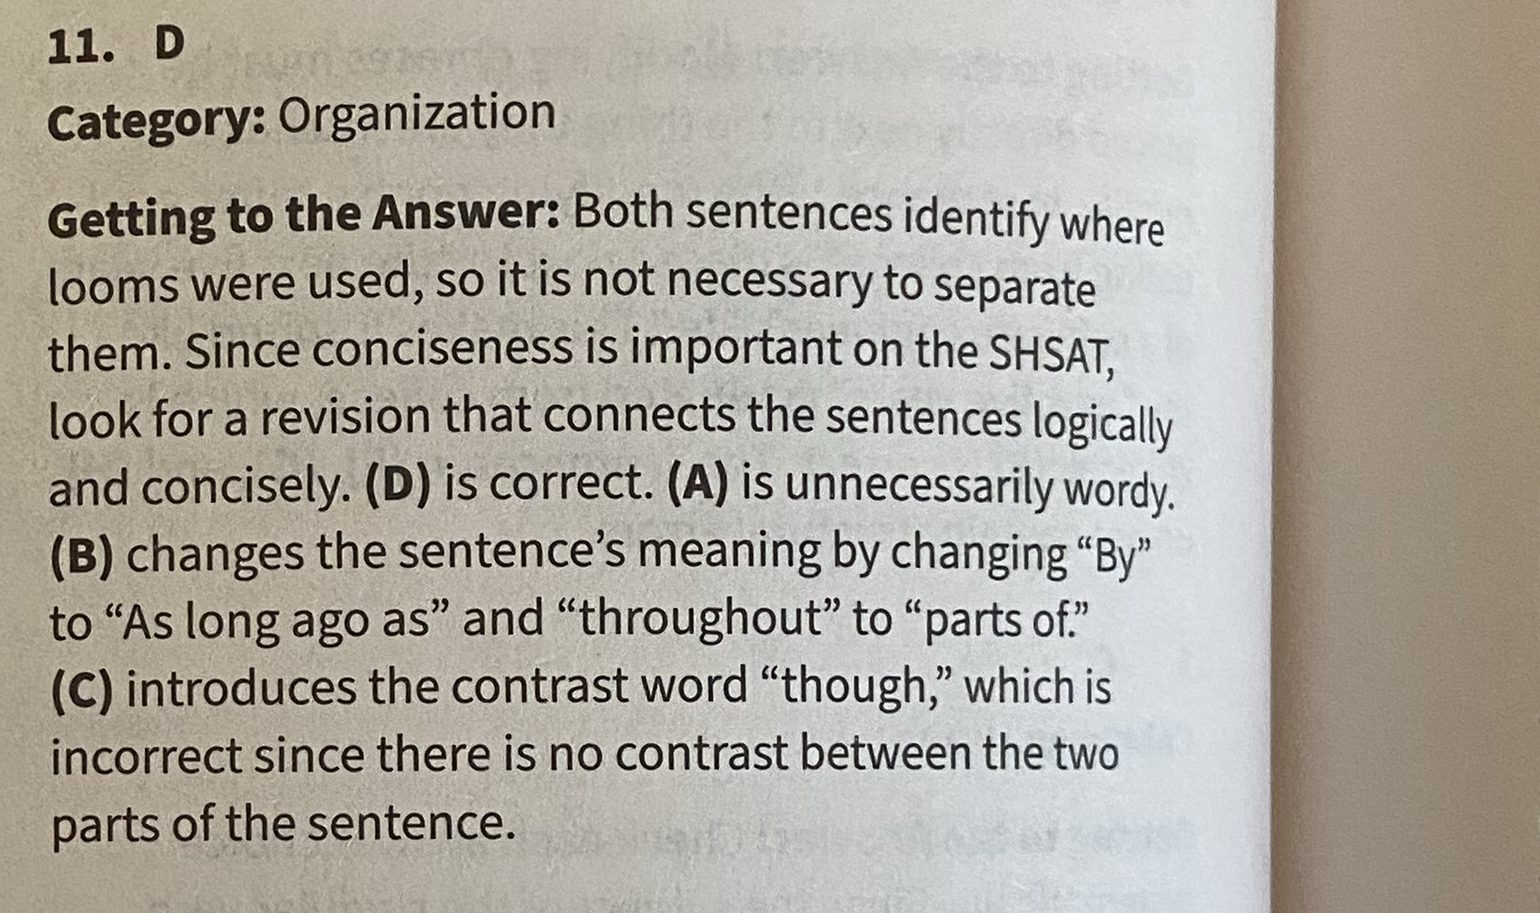
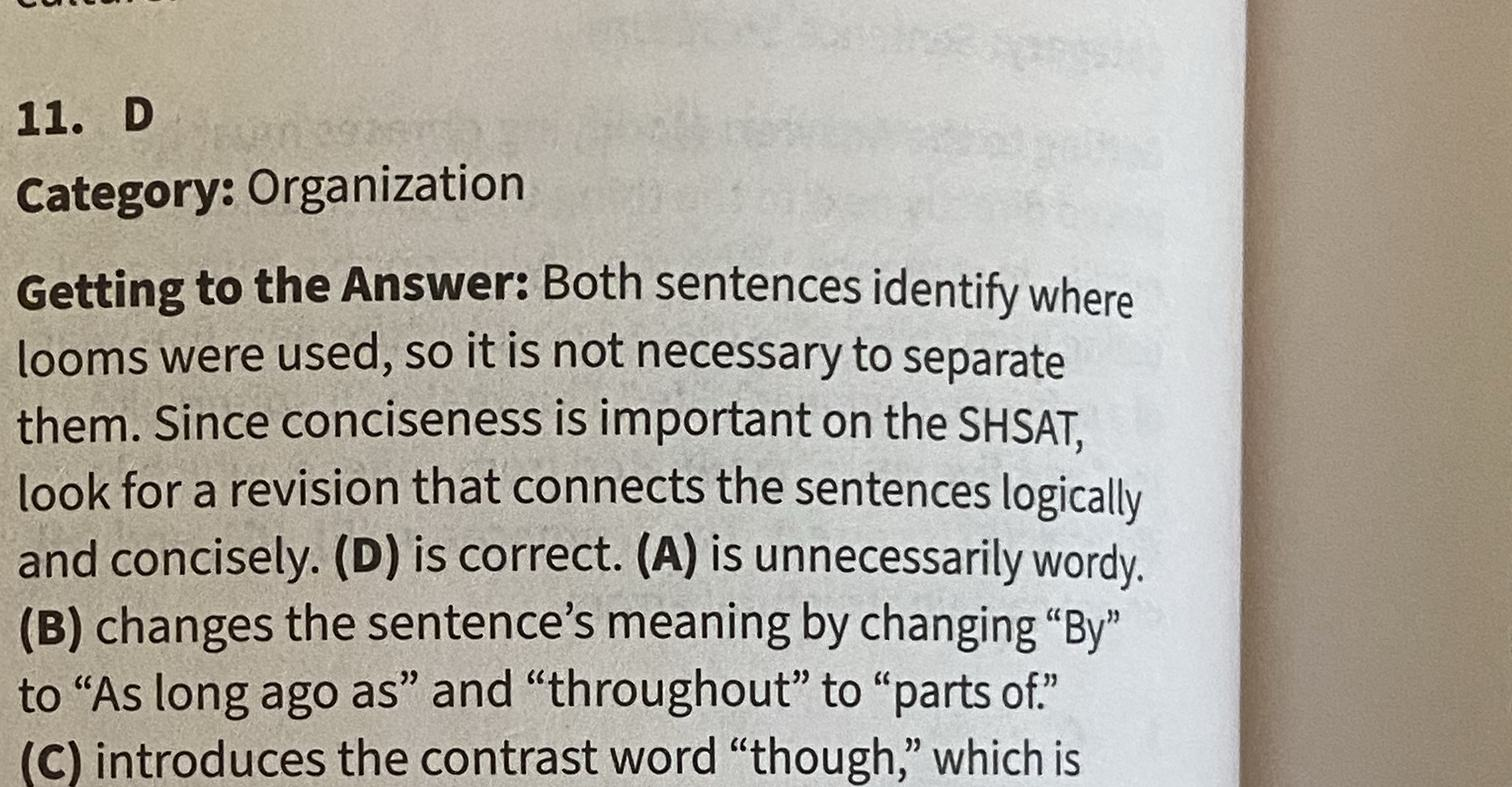
Add Kaplan 2 Revising/Editing Q11-14, completing Part 1's R&E section (14 ELA + 57 math = 71/114)

diff --git a/exams.html b/exams.html
@@ -119,7 +119,7 @@
       <a class="exam-card" href="kaplan-2025-2.html">
         <span class="letter">K2</span>
         <div class="title">Kaplan 2025 — Practice Test 2</div>
-        <div class="meta">In progress · 67 of 114 questions so far (10 ELA + 57 math) · solutions shown as book scans</div>
+        <div class="meta">In progress · 71 of 114 questions so far (14 ELA + 57 math) · Reading Comp (15-57) needs new photos</div>
       </a>
       <a class="exam-card" href="kaplan-2025-3.html">
         <span class="letter">K3</span>
